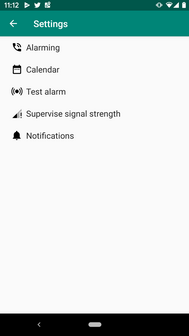
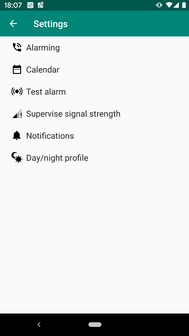
#20 Add day/night profile preferences

Changed region(s): [[0.0529, 0.4464, 0.4762, 0.506], [0.0265, 0.0, 0.2646, 0.0298], [0.873, 0.0, 0.8995, 0.0298]]

diff --git a/app/src/main/java/com/github/frimtec/android/pikettassist/state/SharedState.java b/app/src/main/java/com/github/frimtec/android/pikettassist/state/SharedState.java
@@ -14,6 +14,7 @@ import com.github.frimtec.android.pikettassist.domain.Contact;
 import com.github.frimtec.android.pikettassist.domain.OnOffState;
 
 import org.threeten.bp.LocalTime;
+import org.threeten.bp.format.DateTimeFormatter;
 
 import java.util.Collections;
 import java.util.HashSet;
@@ -47,6 +48,11 @@ public final class SharedState {
   public static final String CALENDAR_FILTER_ALL = "-1";
   public static final String PREF_KEY_PIKETT_STATE_MANUALLY_ON = "pikett_state_manually_on";
   private static final String PREF_KEY_DEFAULT_VOLUME = "default_volume";
+  private static final String PREF_KEY_MANAGE_VOLUME = "manage_volume";
+  private static final String PREF_KEY_ON_CALL_DAY_VOLUME = "on_call_day_volume";
+  private static final String PREF_KEY_ON_CALL_NIGHT_VOLUME = "on_call_night_volume";
+  public static final String PREF_KEY_DAY_START_TIME = "day_start_time";
+  public static final String PREF_KEY_NIGHT_START_TIME = "night_start_time";
   public static final int DEFAULT_VALUE_NOT_SET = -1;
 
   private static final String LAST_ALARM_SMS_NUMBER = "last_alarm_sms_number";
@@ -193,8 +199,8 @@ public final class SharedState {
   }
 
   public static boolean getManageVolumeEnabled(Context context) {
-    // TODO: 27.10.2019 to be implemented
-    return true;
+    SharedPreferences preferences = PreferenceManager.getDefaultSharedPreferences(context);
+    return preferences.getBoolean(PREF_KEY_MANAGE_VOLUME, false);
   }
 
   public static int getDefaultVolume(Context context) {
@@ -210,27 +216,25 @@ public final class SharedState {
   }
 
   public static int getOnCallDayVolume(Context context) {
-    // TODO: 27.10.2019 to be implemented
-    return 7;
+    SharedPreferences preferences = PreferenceManager.getDefaultSharedPreferences(context);
+    return preferences.getInt(PREF_KEY_ON_CALL_DAY_VOLUME, R.integer.default_volume_day);
   }
 
   public static int getOnCallVolume(Context context, LocalTime currentTime) {
-    return currentTime.isAfter(getDayProfileStartTime(context)) && currentTime.isBefore(getDayProfileEndTime(context)) ? getOnCallDayVolume(context) : getOnCallNightVolume(context);
+    return currentTime.isAfter(getDayProfileStartTime(context)) && currentTime.isBefore(getNightProfileStartTime(context)) ? getOnCallDayVolume(context) : getOnCallNightVolume(context);
   }
 
   public static int getOnCallNightVolume(Context context) {
-    // TODO: 27.10.2019 to be implemented
-    return 1;
+    SharedPreferences preferences = PreferenceManager.getDefaultSharedPreferences(context);
+    return preferences.getInt(PREF_KEY_ON_CALL_NIGHT_VOLUME, R.integer.default_volume_night);
   }
 
   public static LocalTime getDayProfileStartTime(Context context) {
-    // TODO: 27.10.2019 to be implemented
-    return LocalTime.of(7, 0);
+    return LocalTime.parse(getSharedPreferences(context, PREF_KEY_DAY_START_TIME, context.getString(R.string.pref_default_day_start_time)), DateTimeFormatter.ISO_TIME);
   }
 
-  public static LocalTime getDayProfileEndTime(Context context) {
-    // TODO: 27.10.2019 to be implemented
-    return LocalTime.of(20, 0);
+  public static LocalTime getNightProfileStartTime(Context context) {
+    return LocalTime.parse(getSharedPreferences(context, PREF_KEY_NIGHT_START_TIME, context.getString(R.string.pref_default_night_start_time)), DateTimeFormatter.ISO_TIME);
   }
 
   private static void setSharedPreferences(Context context, String key, String value) {

diff --git a/app/src/main/java/com/github/frimtec/android/pikettassist/activity/SettingsActivity.java b/app/src/main/java/com/github/frimtec/android/pikettassist/activity/SettingsActivity.java
@@ -24,6 +24,8 @@ import java.util.Set;
 import java.util.stream.Collectors;
 
 import static com.github.frimtec.android.pikettassist.state.SharedState.PREF_KEY_CALENDAR_EVENT_PIKETT_TITLE_PATTERN;
+import static com.github.frimtec.android.pikettassist.state.SharedState.PREF_KEY_DAY_START_TIME;
+import static com.github.frimtec.android.pikettassist.state.SharedState.PREF_KEY_NIGHT_START_TIME;
 import static com.github.frimtec.android.pikettassist.state.SharedState.PREF_KEY_SMS_CONFIRM_TEXT;
 import static com.github.frimtec.android.pikettassist.state.SharedState.PREF_KEY_TEST_ALARM_ACCEPT_TIME_WINDOW_MINUTES;
 import static com.github.frimtec.android.pikettassist.state.SharedState.PREF_KEY_TEST_ALARM_CHECK_TIME;
@@ -165,7 +167,8 @@ public class SettingsActivity extends AppCompatPreferenceActivity {
         || AlarmingFragment.class.getName().equals(fragmentName)
         || TestAlarmFragment.class.getName().equals(fragmentName)
         || SignalStrengthPreferenceFragment.class.getName().equals(fragmentName)
-        || NotificationPreferenceFragment.class.getName().equals(fragmentName);
+        || NotificationPreferenceFragment.class.getName().equals(fragmentName)
+        || DayNightProfilePreferenceFragment.class.getName().equals(fragmentName);
   }
 
   /**
@@ -276,6 +279,29 @@ public class SettingsActivity extends AppCompatPreferenceActivity {
       super.onCreate(savedInstanceState);
       addPreferencesFromResource(R.xml.pref_notification);
       setHasOptionsMenu(true);
+    }
+
+    @Override
+    public boolean onOptionsItemSelected(MenuItem item) {
+      int id = item.getItemId();
+      if (id == android.R.id.home) {
+        startActivity(new Intent(getActivity(), SettingsActivity.class));
+        return true;
+      }
+      return super.onOptionsItemSelected(item);
+    }
+  }
+
+  @TargetApi(Build.VERSION_CODES.HONEYCOMB)
+  public static class DayNightProfilePreferenceFragment extends PreferenceFragment {
+
+    @Override
+    public void onCreate(Bundle savedInstanceState) {
+      super.onCreate(savedInstanceState);
+      addPreferencesFromResource(R.xml.pref_day_night_profile);
+      setHasOptionsMenu(true);
+      bindPreferenceSummaryToValue(findPreference(PREF_KEY_DAY_START_TIME));
+      bindPreferenceSummaryToValue(findPreference(PREF_KEY_NIGHT_START_TIME));
     }
 
     @Override

diff --git a/readme.md b/readme.md
@@ -48,6 +48,9 @@ This ensures that you won't stay in a dead spot without recognize it during on-c
 ![Low signal state info](images/PAssist_13.png)
 ![None signal state info](images/PAssist_04.png)
 
+### Ringtone volume
+PAssist can control the ringtone volume during on-call duty with separate profiles for day and night. 
+
 ### Test alarms
 If the SMS alarming system in use sends daily test alarms to verify the alarming chain from end to end, PAssist can be
 configured to automatically receive and acknowledge them, without interrupting the user.
@@ -72,7 +75,7 @@ PAssist can be installed from [Google&nbsp;Play](https://play.google.com/store/a
 Build PAssist on your own and then install the APK via ADB to your android phone.
 
 ## Configuration 
-The configuration is split into five blocks:
+The configuration is split into several blocks:
 
 ![Settings](images/PAssist_10.png)
 
@@ -143,6 +146,17 @@ Defines the ringtone that is used to alert for on-call alarms.
 Defines the ringtone that is used to alert for missing test alarms.
 
 ![Overview](images/PAssist_15.png)
+
+### Day/night profile
+#### Profile start times
+Time when day/night profile starts.
+
+#### Ringtone volume
+Defines whether PAssist should control the ringtone volume during on-call duty or not.
+The desired ringtone volumes can be defined for the day and night profile separably.
+If activated, the ringtone volume is automatically restored to the former value, when on-call duty is finished.
+
+![Overview](images/PAssist_20.png)
 
 ## Supported languages
 Currently the following languages are supported in PAssist:
